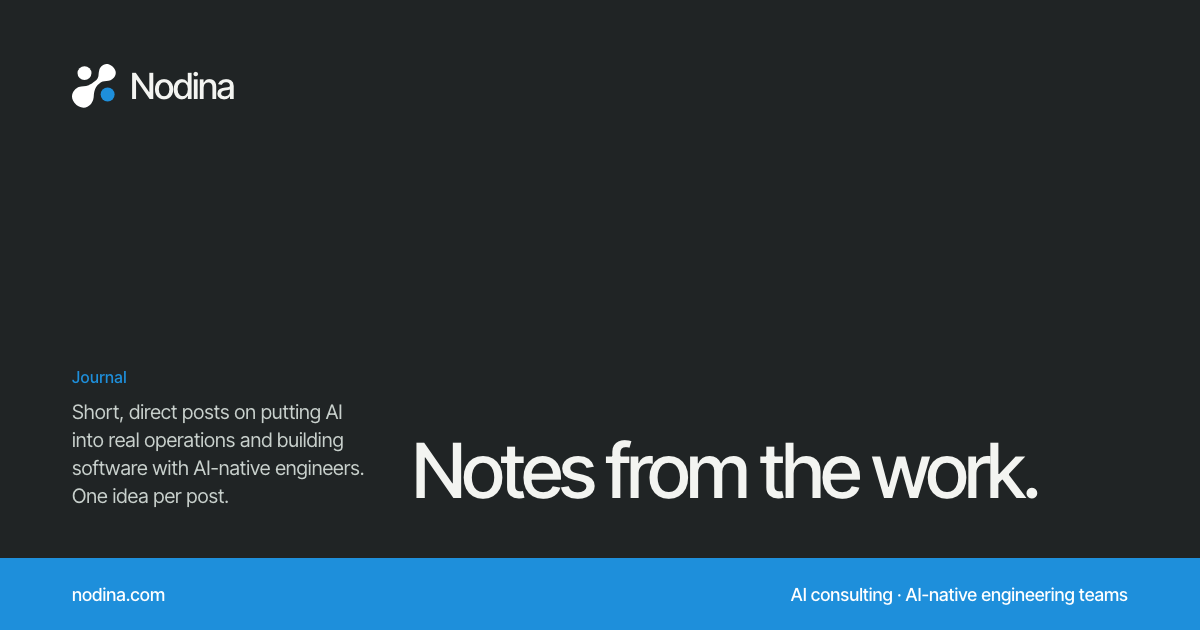
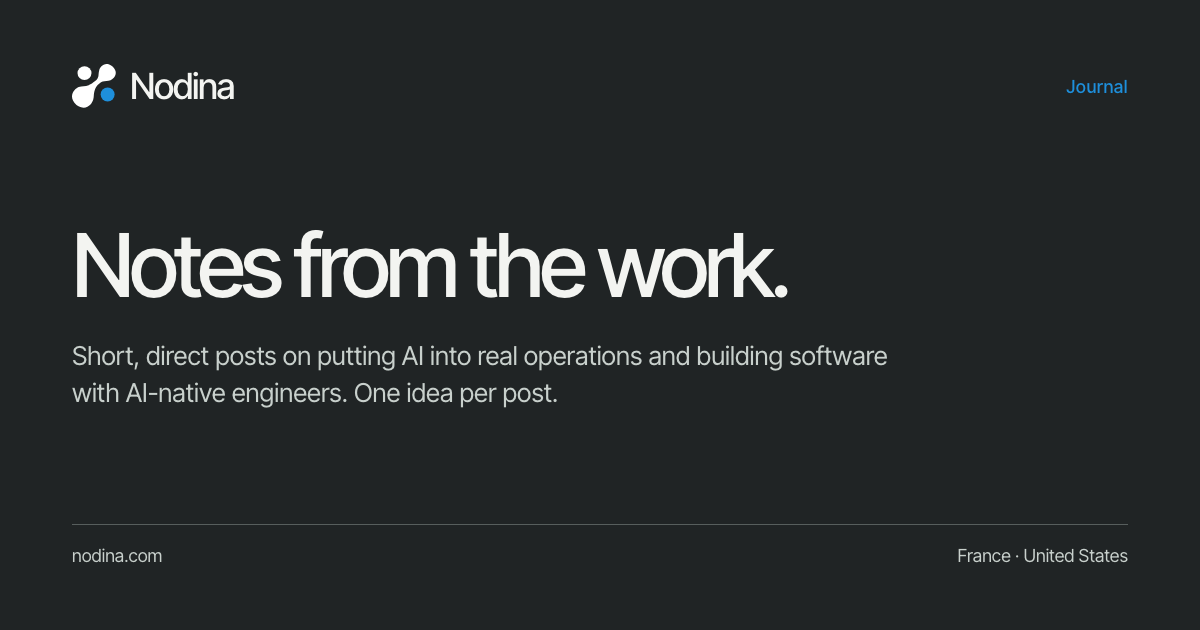
OG images: Statement layout on the dark palette

diff --git a/content/PLAN.md b/content/PLAN.md
@@ -4,7 +4,7 @@ Les textes et la structure FR/EN, puis le lancement public, sont approuvés par 
 
 **Révision du 9 octobre, non publiée :** la home FR/EN est en relecture (`reviewPending`), avec quatre pages d’offre en brouillon. Les dates d’accord des homes ci-dessous concernent la version publique précédente. La compilation du candidat public est bloquée tant que la révision n’est pas validée. [Dossier de préparation](../reports/offers-restructure-20261009.md).
 
-**Images Open Graph (26 octobre 2026) :** chaque page et chaque article reçoit une image 1200 × 630 générée par `tools/og/build-og.mjs` (gabarit « bande sombre » : fond anthracite, titre de la page, libellé et sous-titre, barre bleu ciel). Le script s’exécute au début de `npm run build` et de `build-release.py` ; les fichiers sont dans `public/assets/og/` et `check-site.py` refuse une page sans image. Un nouvel article n’a rien à faire de plus : son titre, sa description et son thème (front matter) alimentent l’image. Ne pas créer d’image à la main.
+**Images Open Graph (26 octobre 2026) :** chaque page et chaque article reçoit une image 1200 × 630 générée par `tools/og/build-og.mjs` (gabarit « Statement » sur fond anthracite : logo, libellé bleu ciel, titre de la page, sous-titre et pied réglé). Le script s’exécute au début de `npm run build` et de `build-release.py` ; les fichiers sont dans `public/assets/og/` et `check-site.py` refuse une page sans image. Un nouvel article n’a rien à faire de plus : son titre, sa description et son thème (front matter) alimentent l’image. Ne pas créer d’image à la main.
 
 Source machine : [publication.json](publication.json). `preview` conserve les bandeaux et noindex ; `release-candidate` reste noindex. `production` exige l’accord de lancement, des pages published datées et l’accès public Contact enregistré.
 
